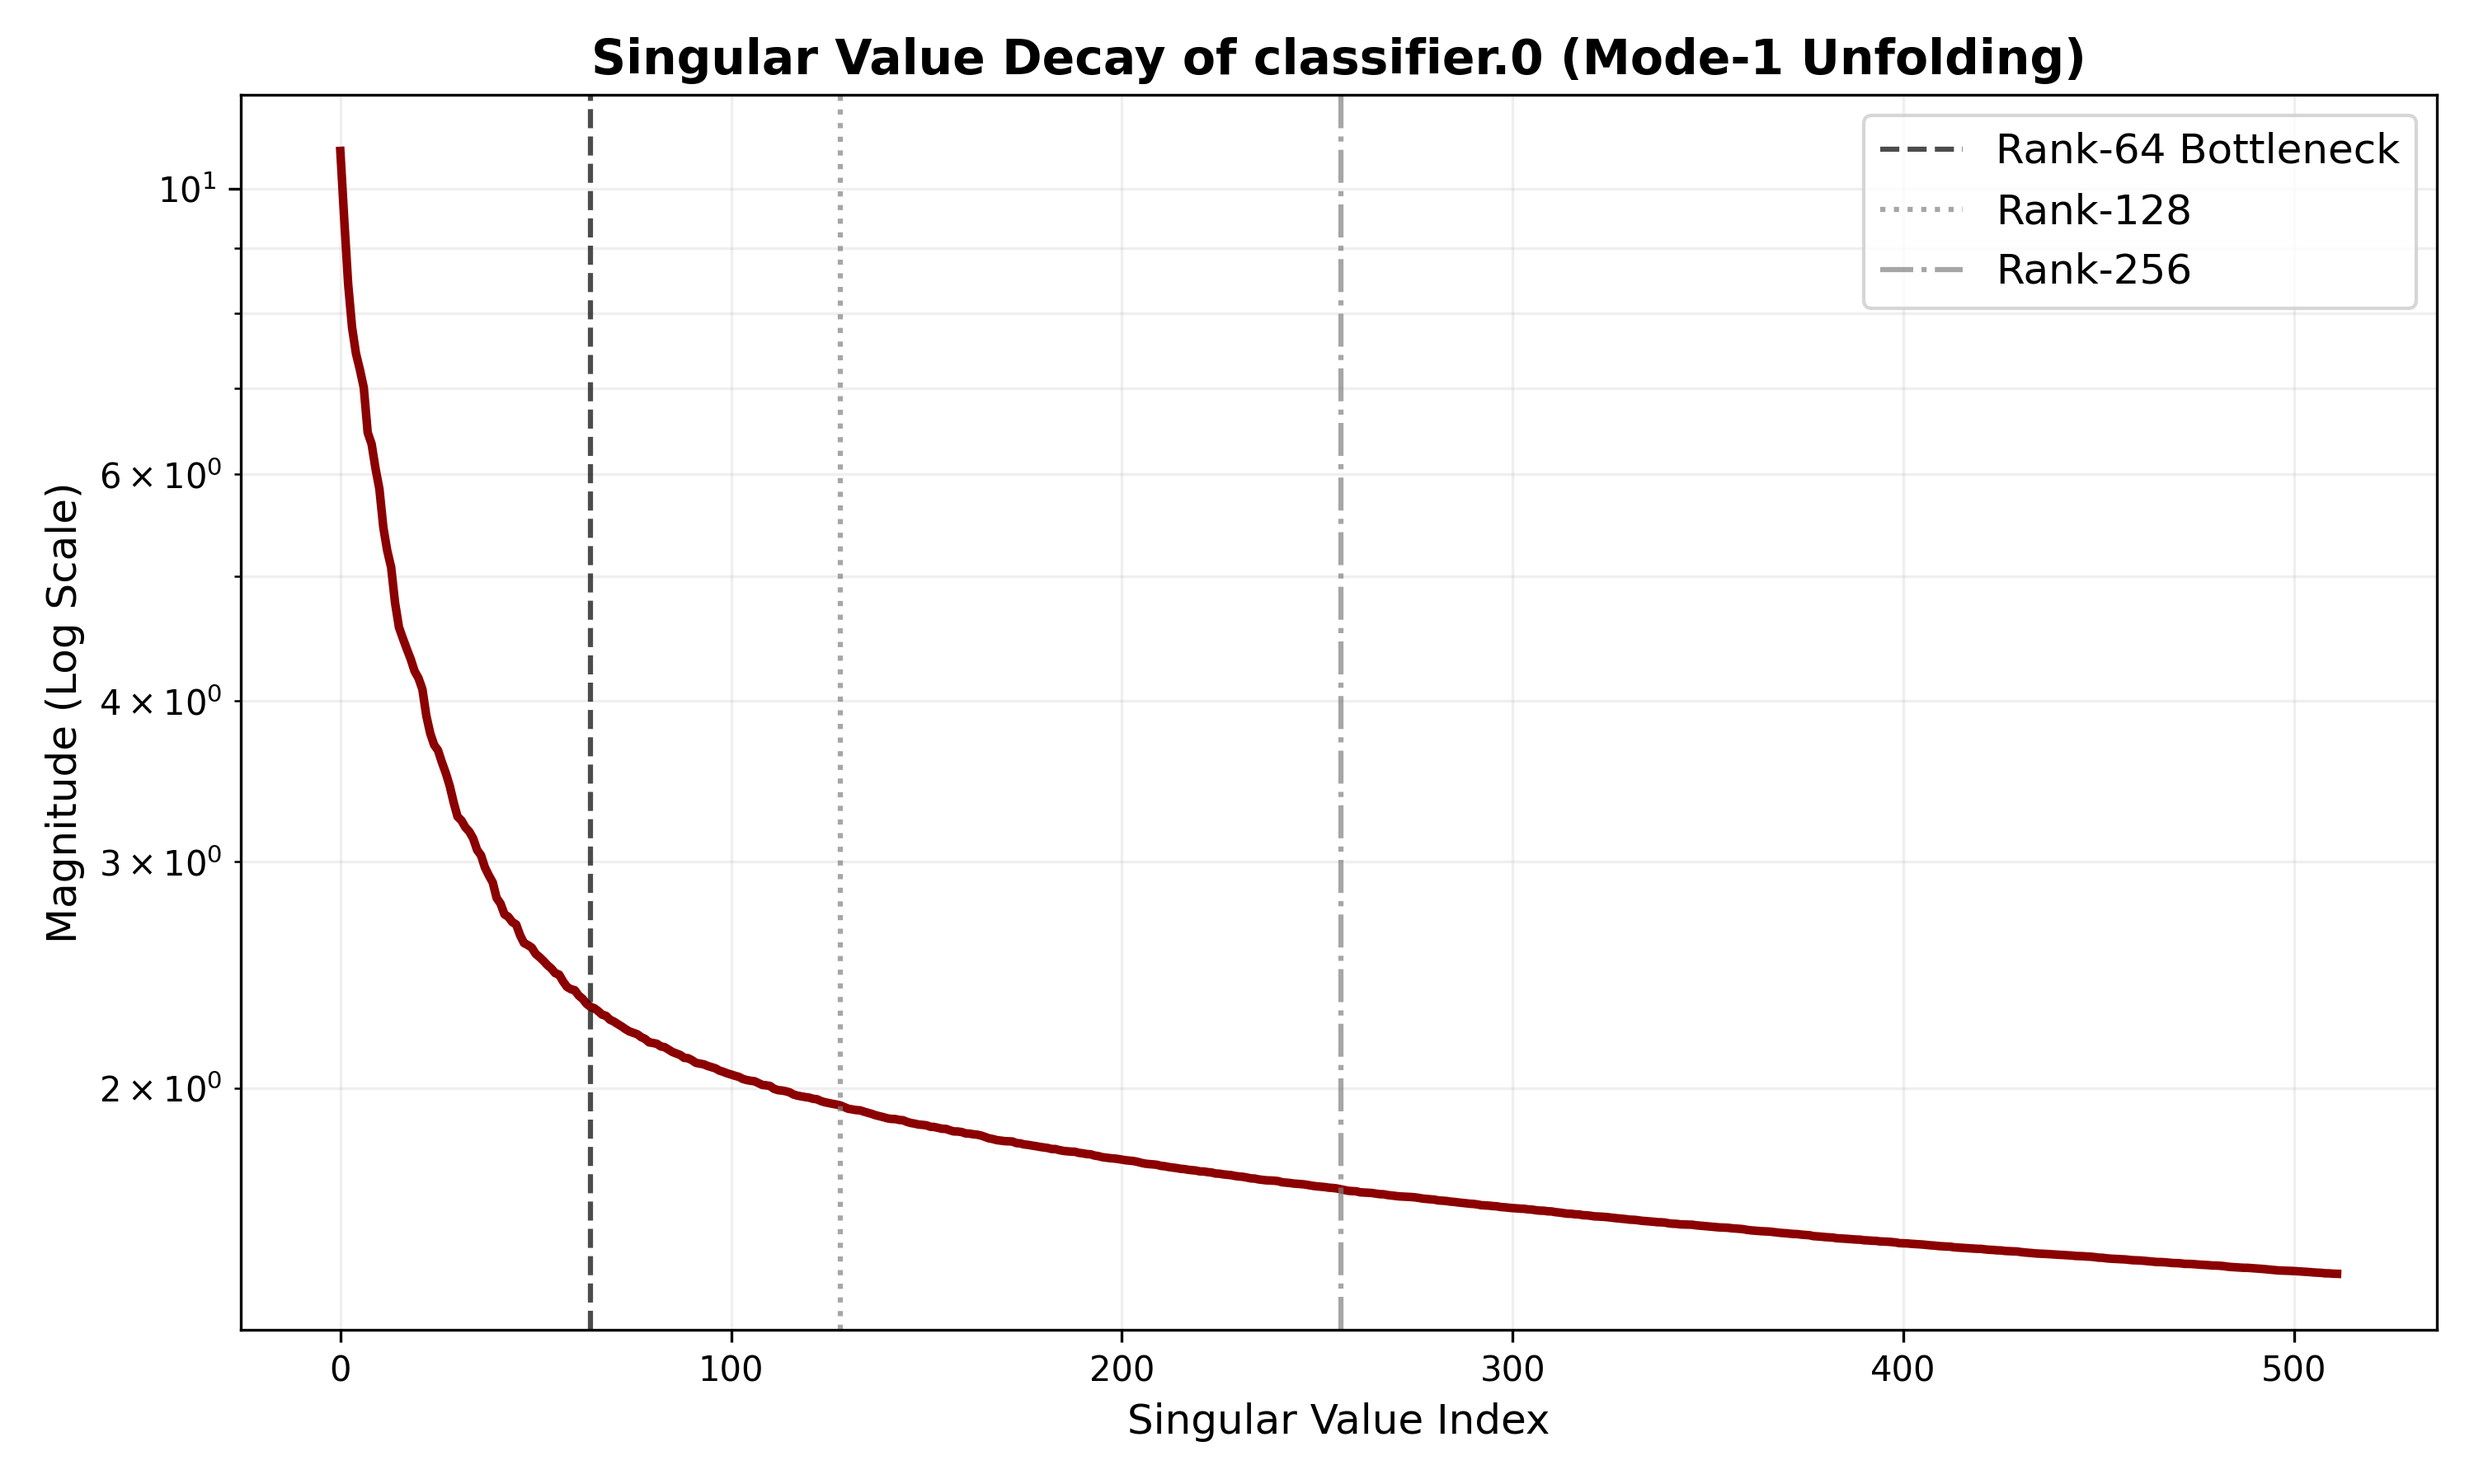
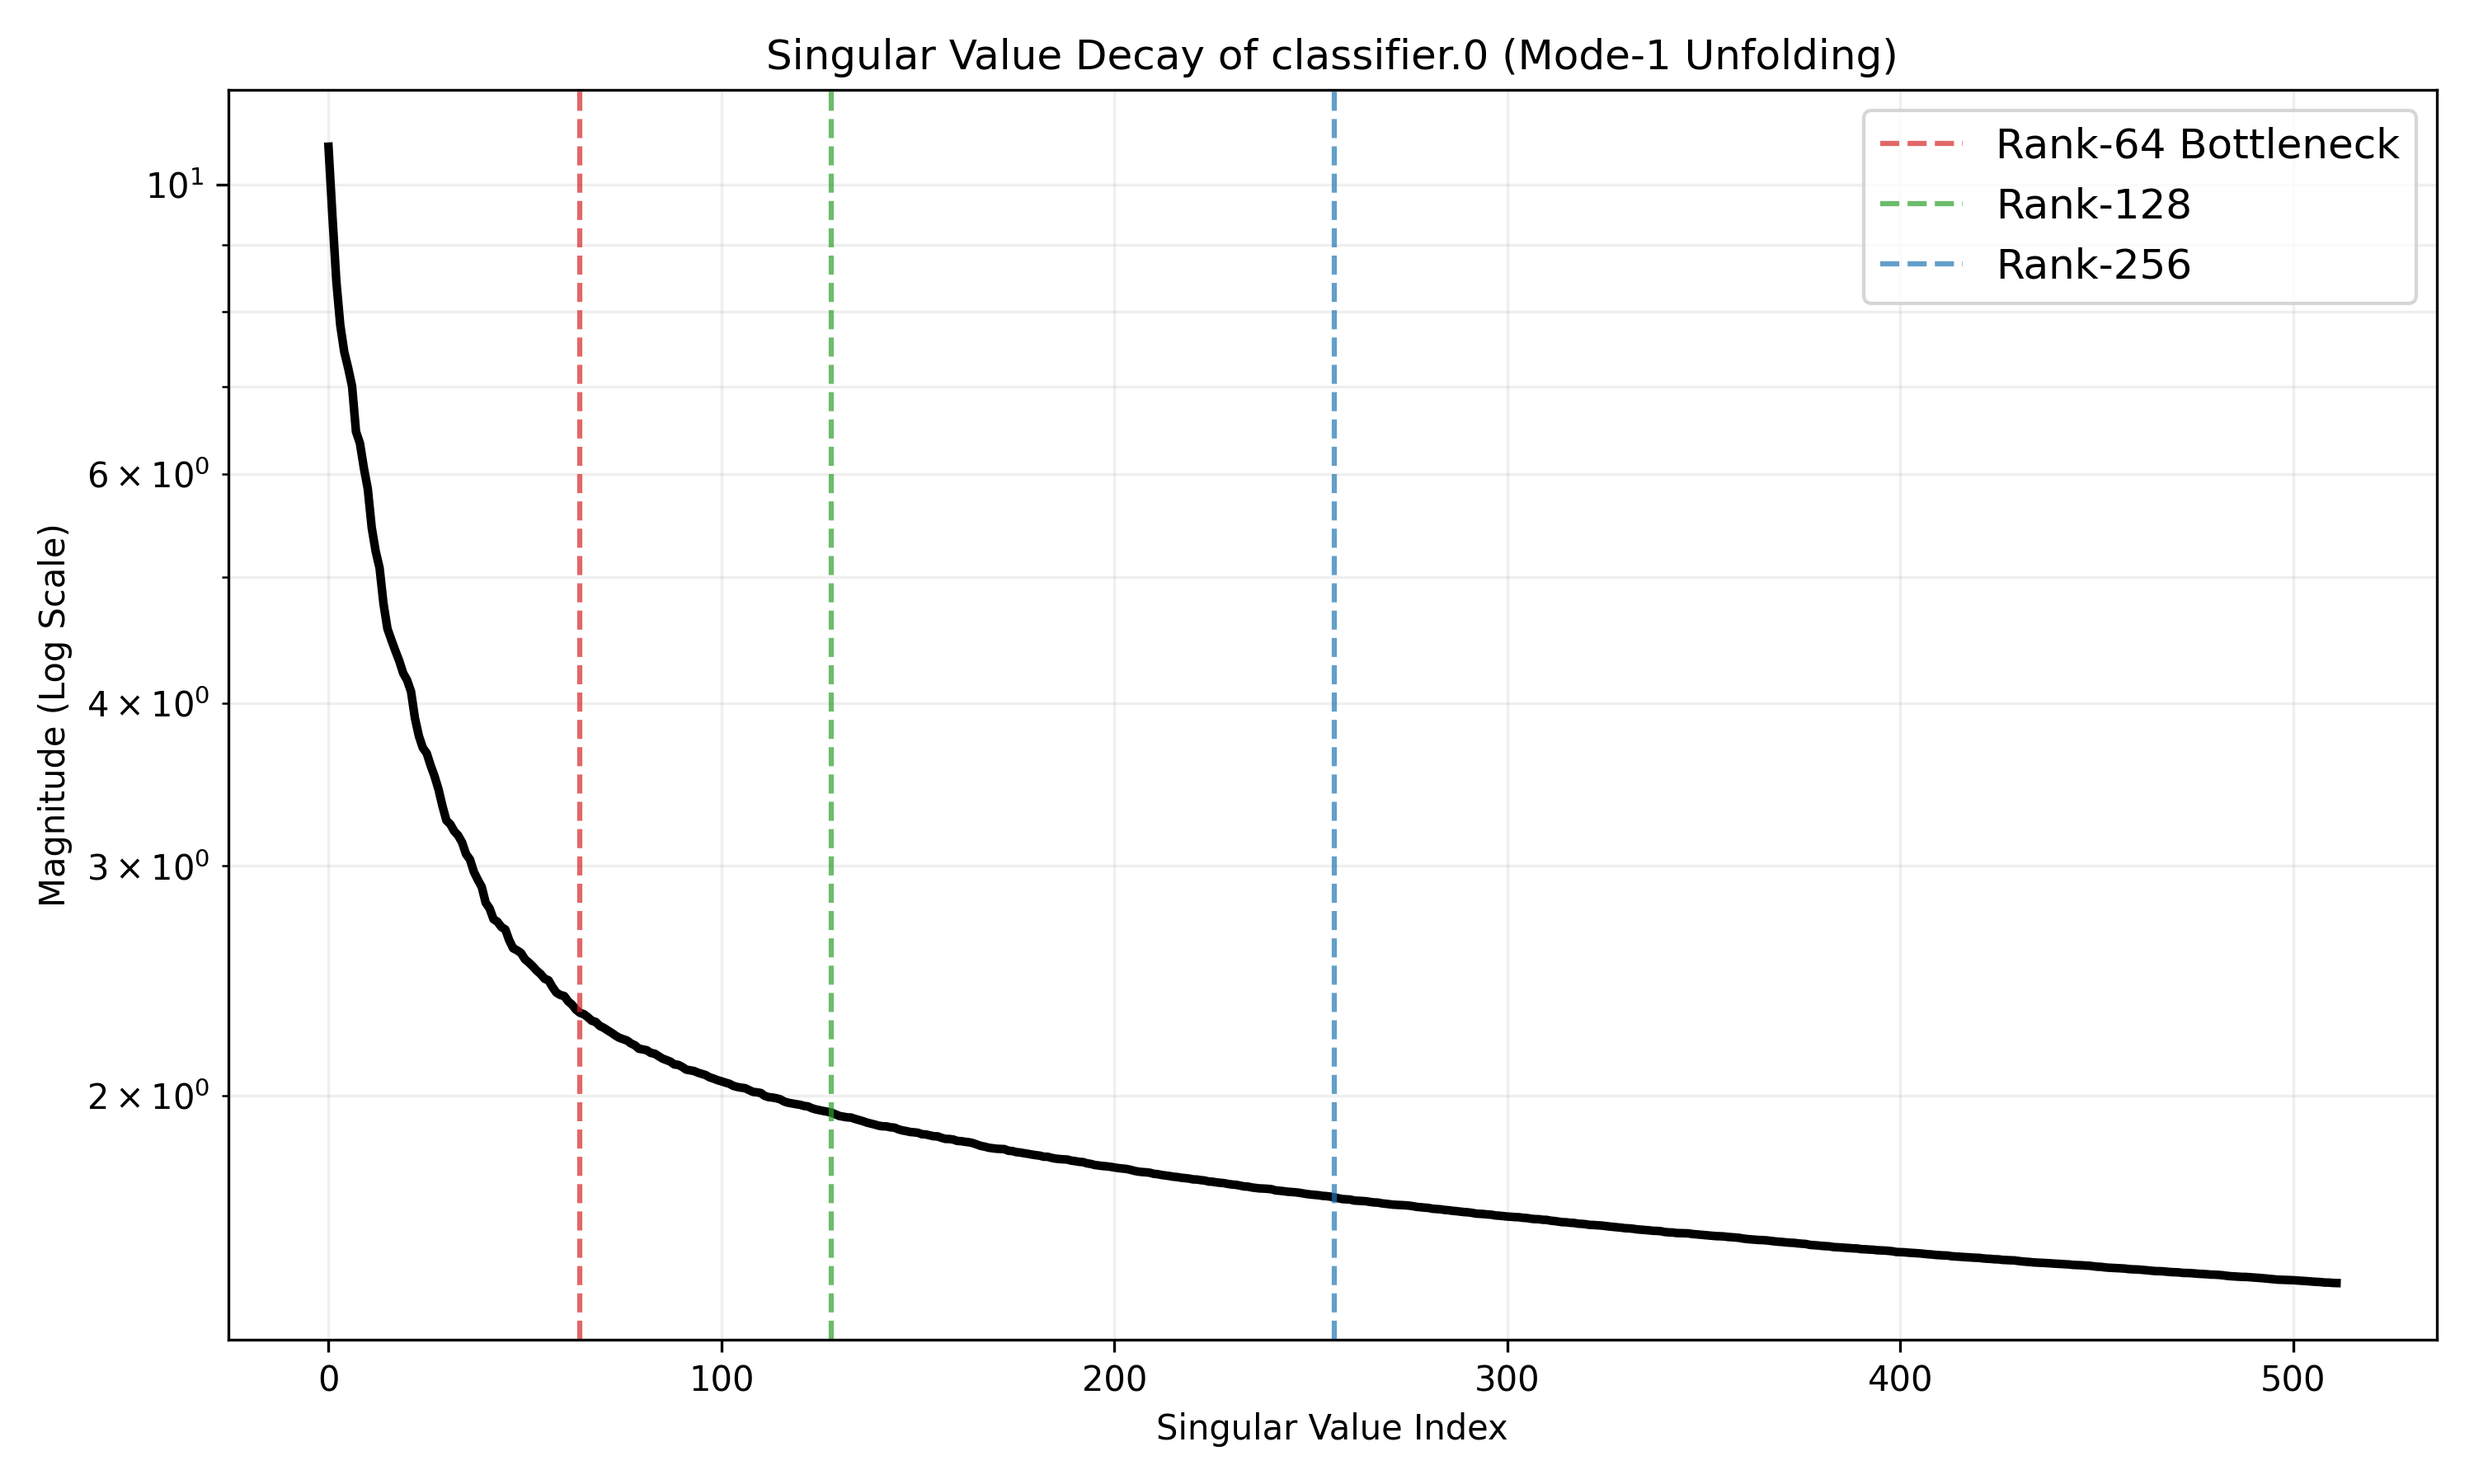
.

diff --git a/scripts/svd_decay.py b/scripts/svd_decay.py
@@ -23,19 +23,18 @@ U, S, Vh = torch.linalg.svd(W_unfolded, full_matrices=False)
 S_numpy = S.cpu().numpy()
 
 plt.figure(figsize=(10, 6))
-plt.plot(S_numpy[:512], linewidth=2.5, color='darkred') 
+plt.plot(S_numpy[:512], linewidth=2.5, color='black') 
 
-plt.axvline(x=64, color='black', linestyle='--', alpha=0.7, label='Rank-64 Bottleneck')
-plt.axvline(x=128, color='grey', linestyle=':', alpha=0.7, label='Rank-128')
-plt.axvline(x=256, color='grey', linestyle='-.', alpha=0.7, label='Rank-256')
+plt.axvline(x=64, color='tab:red', linestyle='--', alpha=0.7, label='Rank-64 Bottleneck')
+plt.axvline(x=128, color='tab:green', linestyle='--', alpha=0.7, label='Rank-128')
+plt.axvline(x=256, color='tab:blue', linestyle='--', alpha=0.7, label='Rank-256')
 
 plt.yscale('log')
-plt.title("Singular Value Decay of classifier.0 (Mode-1 Unfolding)", fontsize=14, fontweight='bold')
-plt.xlabel("Singular Value Index", fontsize=12)
-plt.ylabel("Magnitude (Log Scale)", fontsize=12)
+plt.title("Singular Value Decay of classifier.0 (Mode-1 Unfolding)")
+plt.xlabel("Singular Value Index")
+plt.ylabel("Magnitude (Log Scale)")
 plt.legend(fontsize=12)
 plt.grid(True, which="both", ls="-", alpha=0.2)
 plt.tight_layout()
 
-plt.savefig("svd_decay.png", dpi=300)
-plt.show()
+plt.savefig("res/svd_decay.png", dpi=300)
